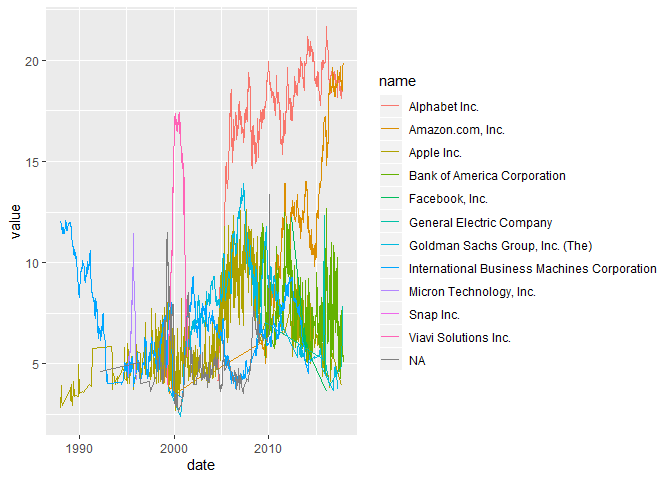
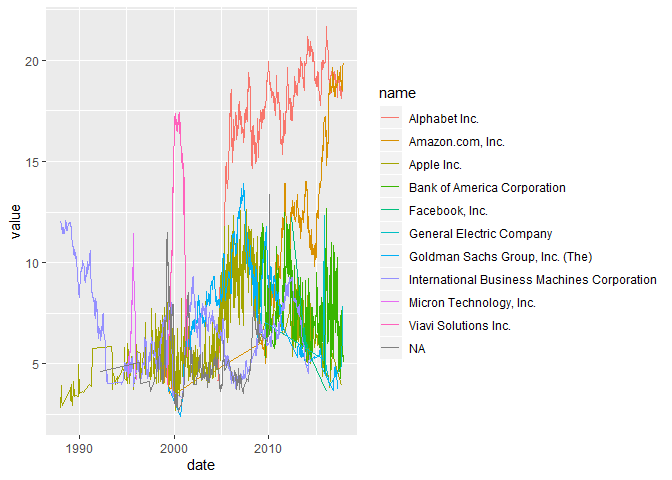
A new plot.

diff --git a/eda.md b/eda.md
@@ -268,8 +268,94 @@ values over time for each of these stocks.
       group_by(stock) %>% 
       mutate(max_value = max(value)) %>% 
       ungroup() %>% 
-      filter(max_value >= 10) %>% 
+      filter(max_value >= 11) %>% 
       ggplot(aes(date, value)) + 
       geom_line(aes(color = name))# + theme(legend.position = "none")
 
 ![](eda_files/figure-markdown_strict/unnamed-chunk-4-2.png)
+
+    portfolio_pre %>% 
+      arrange(date) %>% 
+      mutate(date = floor_date(date, unit = "weeks")) %>%
+      group_by(date, stock) %>% 
+      summarize(value = mean(value)) %>% 
+      ungroup() %>% 
+      arrange(desc(value)) %>% 
+      arrange(date) %>% 
+      group_by(date) %>% 
+      mutate(rownum = row_number(date)) %>% 
+      ungroup() %>% 
+      filter(rownum <= 5) %>% #distinct(stock) %>% 
+      left_join(tickers, by = c("stock" = "symbol")) %>% 
+      group_by(stock) %>% 
+      mutate(max_value = max(value)) %>% 
+      ungroup() %>% 
+      mutate(name = if_else(max_value > 11, name, "Not in top 12."), 
+             cond = if_else(max_value > 11, TRUE, FALSE)) %>% 
+      group_by(name) %>% 
+      mutate(n = sum(!is.na(name))) %>%
+      ungroup() %>% 
+      mutate(name = if_else(is.na(name), stock, name), 
+             name = as.factor(name)) %>% 
+      ggplot(aes(date, value)) + 
+      geom_line(aes(color = fct_reorder(name, n), 
+                    alpha = !cond)) +
+      geom_line(aes(color = fct_reorder(name, n),
+                    alpha = cond)) +
+      scale_color_manual(values = c(RColorBrewer::brewer.pal(12, "Set3"), "Grey60")) + 
+      hrbrthemes::theme_ipsum()
+
+    ## Warning: Using alpha for a discrete variable is not advised.
+
+    ## Warning in grid.Call(C_stringMetric, as.graphicsAnnot(x$label)): font
+    ## family not found in Windows font database
+
+    ## Warning in grid.Call(C_stringMetric, as.graphicsAnnot(x$label)): font
+    ## family not found in Windows font database
+
+    ## Warning in grid.Call(C_textBounds, as.graphicsAnnot(x$label), x$x, x$y, :
+    ## font family not found in Windows font database
+
+    ## Warning in grid.Call(C_stringMetric, as.graphicsAnnot(x$label)): font
+    ## family not found in Windows font database
+
+    ## Warning in grid.Call(C_textBounds, as.graphicsAnnot(x$label), x$x, x$y, :
+    ## font family not found in Windows font database
+
+    ## Warning in grid.Call(C_textBounds, as.graphicsAnnot(x$label), x$x, x$y, :
+    ## font family not found in Windows font database
+
+    ## Warning in grid.Call(C_textBounds, as.graphicsAnnot(x$label), x$x, x$y, :
+    ## font family not found in Windows font database
+
+    ## Warning in grid.Call(C_textBounds, as.graphicsAnnot(x$label), x$x, x$y, :
+    ## font family not found in Windows font database
+
+    ## Warning in grid.Call(C_textBounds, as.graphicsAnnot(x$label), x$x, x$y, :
+    ## font family not found in Windows font database
+
+    ## Warning in grid.Call(C_textBounds, as.graphicsAnnot(x$label), x$x, x$y, :
+    ## font family not found in Windows font database
+
+    ## Warning in grid.Call(C_textBounds, as.graphicsAnnot(x$label), x$x, x$y, :
+    ## font family not found in Windows font database
+
+    ## Warning in grid.Call(C_textBounds, as.graphicsAnnot(x$label), x$x, x$y, :
+    ## font family not found in Windows font database
+
+    ## Warning in grid.Call.graphics(C_text, as.graphicsAnnot(x$label), x$x,
+    ## x$y, : font family not found in Windows font database
+
+    ## Warning in grid.Call(C_textBounds, as.graphicsAnnot(x$label), x$x, x$y, :
+    ## font family not found in Windows font database
+
+    ## Warning in grid.Call(C_textBounds, as.graphicsAnnot(x$label), x$x, x$y, :
+    ## font family not found in Windows font database
+
+    ## Warning in grid.Call(C_textBounds, as.graphicsAnnot(x$label), x$x, x$y, :
+    ## font family not found in Windows font database
+
+    ## Warning in grid.Call(C_textBounds, as.graphicsAnnot(x$label), x$x, x$y, :
+    ## font family not found in Windows font database
+
+![](eda_files/figure-markdown_strict/unnamed-chunk-4-3.png)
